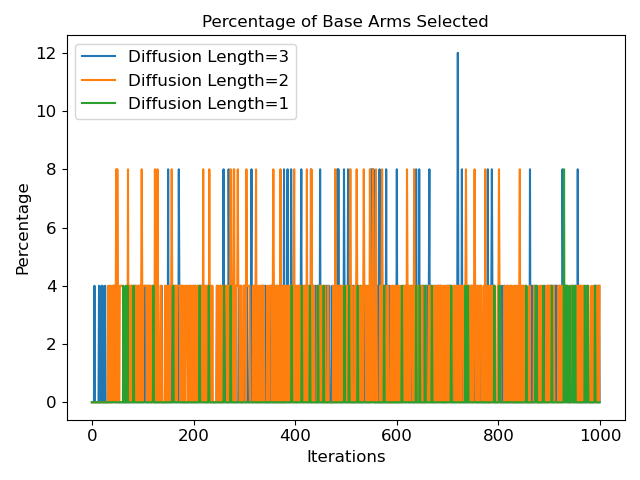
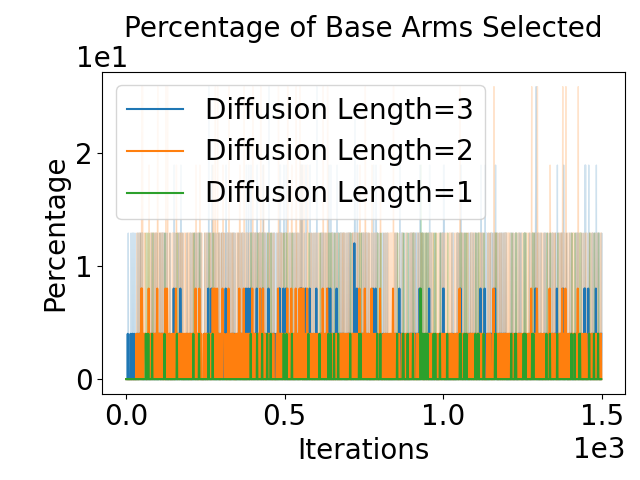
IMM

diff --git a/plot.py b/plot.py
@@ -7,7 +7,7 @@ import argparse
 
 # SMALL_SIZE = 18
 # MEDIUM_SIZE = 15
-BIGGER_SIZE = 12 # 20 for paper
+BIGGER_SIZE = 20 # 20 for paper
 
 plt.rc('axes', titlesize=BIGGER_SIZE)     # fontsize of the title
 plt.rc('axes', labelsize=BIGGER_SIZE)    # fontsize of the x and y labels
@@ -50,7 +50,7 @@ if args.exp_type == 'BaseArmRate':
 exp_num = 0
 
 while os.path.exists(os.path.join('./SimulationResults', args.exp_name, args.exp_type + str(exp_num) + '.csv')):
-    data = pd.read_csv(os.path.join('./SimulationResults', args.exp_name, args.exp_type + str(exp_num) + '.csv')).iloc[:80000, :]
+    data = pd.read_csv(os.path.join('./SimulationResults', args.exp_name, args.exp_type + str(exp_num) + '.csv')).iloc[:1500, :]
     exp.append(data)
     exp_num += 1
 
